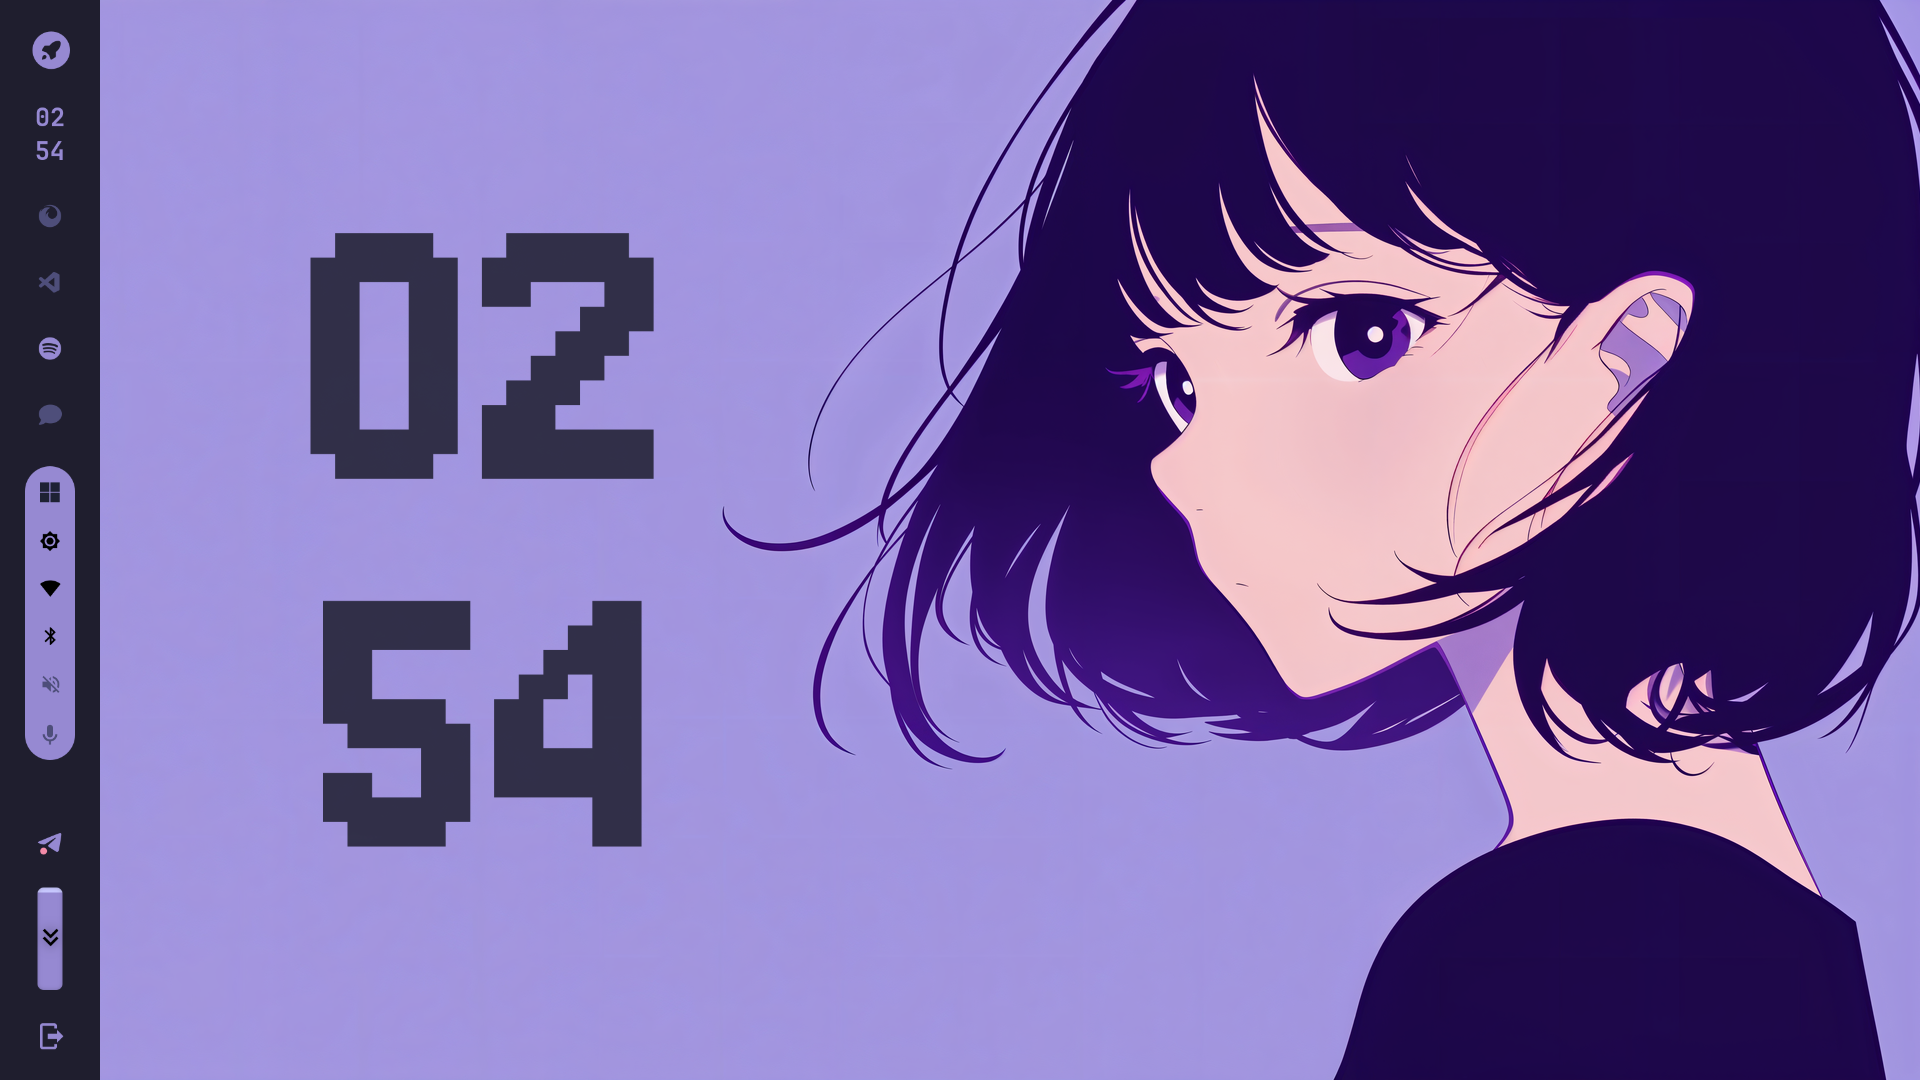
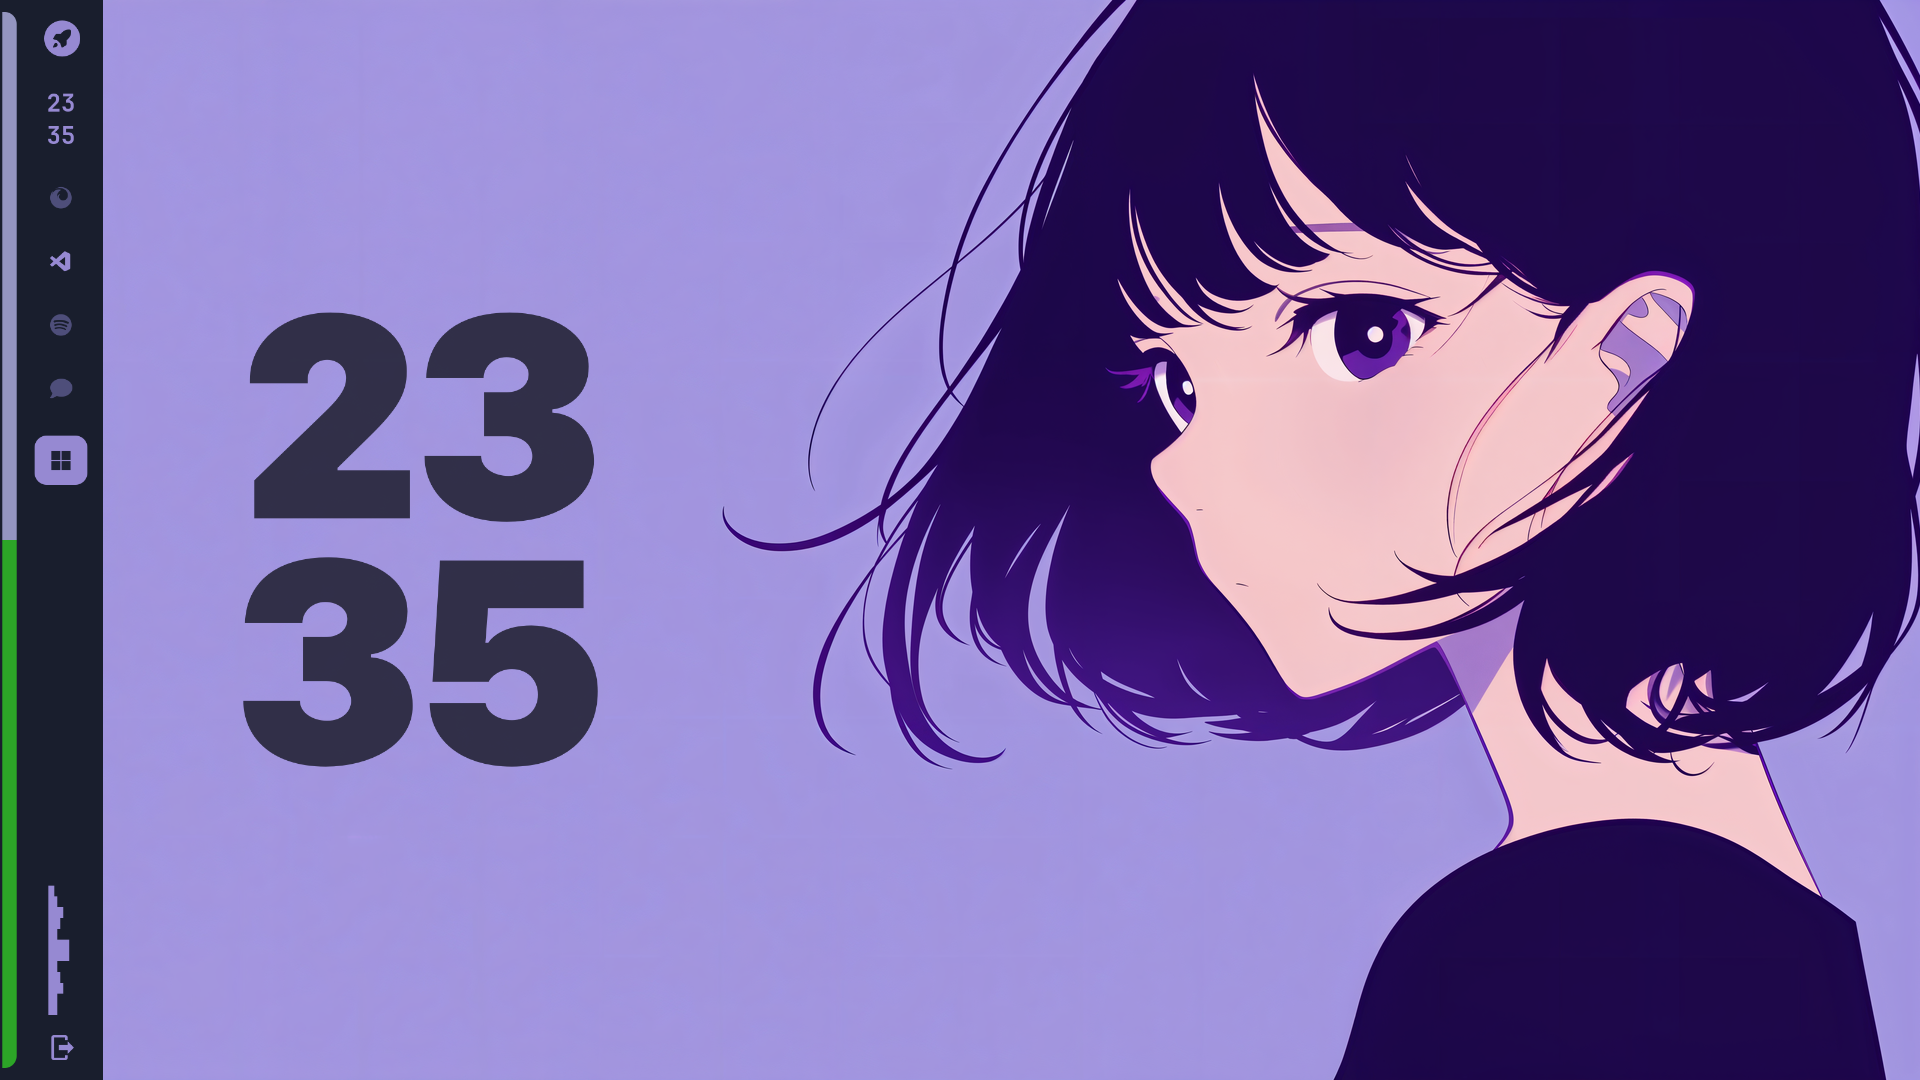
CHANGE  EWW FONT AND ADD CAVA TO WAYBAR

Changed region(s): [[0.125, 0.2139, 0.3438, 0.4889], [0.125, 0.5194, 0.3438, 0.7944], [0.0, 0.0, 0.0625, 1.0]]

diff --git a/eww/eww.scss b/eww/eww.scss
@@ -1,5 +1,5 @@
 $base-color: rgba(30, 30, 46, 0.851);
-$base-text: #9689D2;
+$base-text: #9689d2;
 
 window {
   background-color: transparent;
@@ -11,18 +11,18 @@ window {
   padding-left: 10px;
 }
 
-.time-hour, .time-min {
-  font-family: "Jersey 10", sans-serif;
-  font-size: 230pt;
-  font-weight: 500;
+.time-hour,
+.time-min {
+  font-family: "SF Compact Display";
+  font-size: 190pt;
+  font-weight: 900;
   color: $base-color;
 }
 
 .time-hour {
-    margin-bottom: -100px;
-    
+  margin-bottom: -100px;
 }
 
 .time-min {
-    padding-bottom: 0px;
+  padding-bottom: 0px;
 }

diff --git a/waybar/style.css b/waybar/style.css
@@ -84,8 +84,8 @@ window#waybar {
 #bluetooth,
 #microphone,
 #pulseaudio {
-  padding-top: 5px;
-  padding-bottom: 5px;
+  padding-top: 15px;
+  padding-bottom: 15px;
   margin: 2px 0;
   border-radius: 0;
   background: transparent;
@@ -429,4 +429,11 @@ tooltip label {
 #custom-battery-fill {
   color: #1e1e2e;
   background: #c8c8ff;
+}
+
+#custom-cava {
+    padding: 0;
+    margin: 0;
+    font-family: "JetBrainsMono Nerd Font";
+    font-size: 15px; /* Adjust size if needed to fit width */
 }
